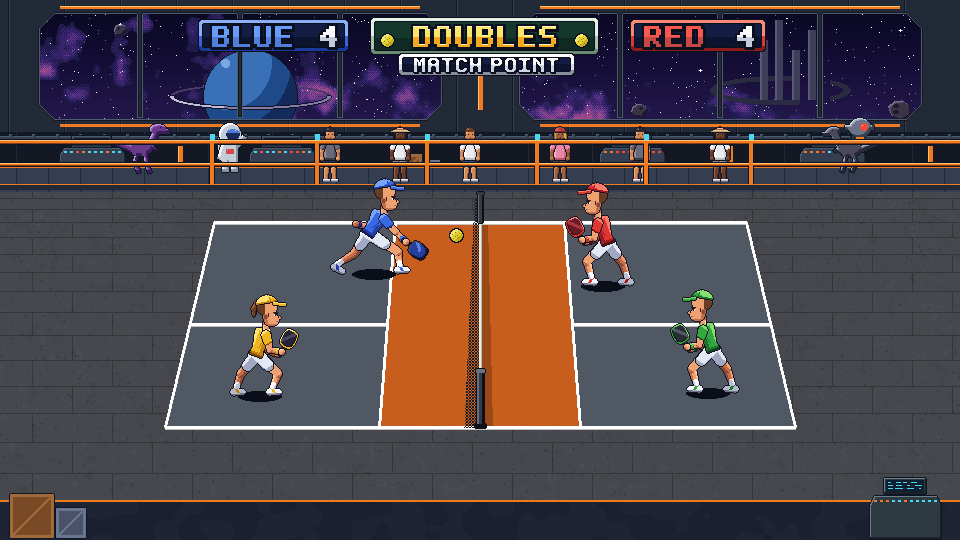
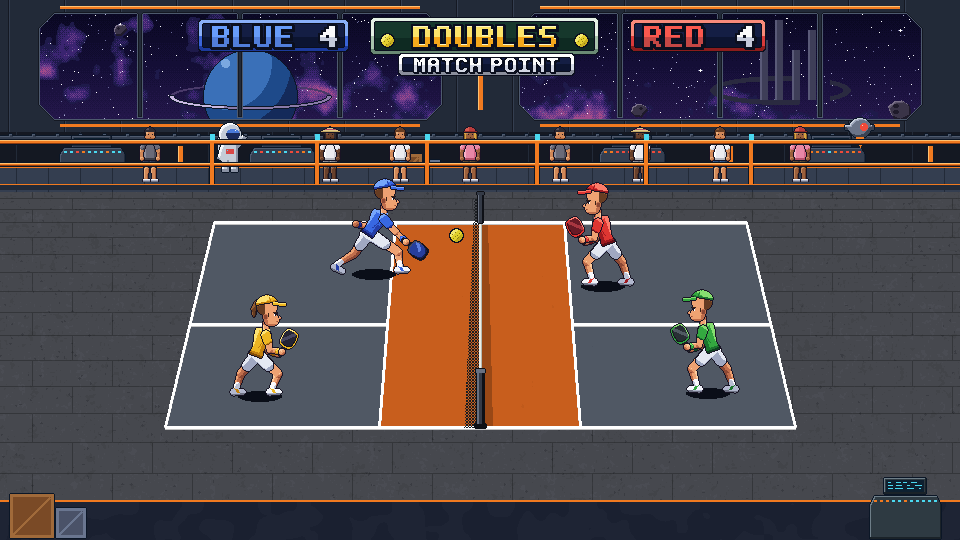
RUINS, GLACIER, STATION without dinosaurs; only the LAB keeps them (PORT-77)
The user's call after the first cut: the raptors, stegosaurus,
triceratops and pterodactyls come out of RUINS, GLACIER and STATION
(spectators stand in their places), and the Carnotaurus walks only the
LAB's deck (DinoWalkers.RIDES). The LAB keeps its tanks' skeletons and
loose raptors. ADR-085 amended.

470/470 plus the e2e, golden traces unchanged.

diff --git a/art/levels/tools/venues.py b/art/levels/tools/venues.py
@@ -792,8 +792,7 @@ RUST = ramp("3a1a14", "6a3020", "9a4a2a", "c87040")
 def ruins() -> Venue:
     """The dinosaur game's level 1: a drowned city burning under a purple
     and orange sunset, a broken bridge over the river, mossy pillars and
-    rusted girders, purple raptors on the wall."""
-    import critters as K
+    rusted girders, the crowd on a mossy wall."""
     v = Venue("ruins")
     v.stands_behind_fence = True
     S = Layer()
@@ -836,16 +835,12 @@ def ruins() -> Venue:
         P.fill(wall & P.rect_mask(-48, y, 1008, y + 1), RUIN_STONE[0])
     P.fill(P.rect_mask(-48, 165, 1008, 168), MOSS[1])
     P.fill(P.rect_mask(-48, 165, 1008, 166), MOSS[2])
-    K.raptor(P, 130, 168, ramp("3a1e5a", "6a3a8a", "9a62b4", "c49ad8"), d=1, s=1.5)
-    K.raptor(P, 220, 168, ramp("5a1e44", "8a3a6a", "c0609a", "e89ac0"), d=1, s=1.3)
-    K.stegosaurus(P, 840, 168, ramp("2a2a4a", "4a4a72", "6a6a96", "9090b8"),
-                  ramp("6a2a1a", "a8502a", "e08a4a"), d=-1, s=1.8)
     barrel(P, 286, 168, 14, 20, ramp("6a1414", "a82a24", "d84a3a"), hexrgb("e8e0d0"),
            mark=(hexrgb("f4f0e6"), hexrgb("c8281e")))
     crate(P, 640, 168, 20, ramp("4a2a16", "7a4a26", "a06a3a"))
     crate(P, 662, 168, 14, ramp("4a2a16", "7a4a26", "a06a3a"))
     v.add("stands", P, 1.0)
-    stand_seats(v, (340, 400, 470, 560, 720, 780), 180)
+    stand_seats(v, (140, 210, 340, 400, 470, 560, 720, 780, 850), 180)
     v.watcher = {"x": 780, "y": 180, "pose": "stand"}
     B = Layer()
     posts = [-30] + [M(x, 0)[0] for x in (110, 330, 560, 790, 1020, 1240)] + [990]
@@ -873,8 +868,7 @@ PINE = ramp("10223a", "1c3a4e", "2c5662")
 def glacier() -> Venue:
     """The dinosaur game's ice wilderness: a pink dusk over snowy peaks, a
     frozen castle's spires, a stone aqueduct hung with icicles, snowy
-    pines, and pale raptors in the drifts."""
-    import critters as K
+    pines, the crowd in the drifts."""
     v = Venue("glacier")
     v.stands_behind_fence = True
     S = Layer()
@@ -884,7 +878,6 @@ def glacier() -> Venue:
     for (cx, cy, w, h, sd) in ((150, 30, 150, 7, 241), (420, 14, 120, 6, 242), (700, 40, 160, 7, 243),
                                (900, 20, 110, 6, 244), (300, 66, 100, 5, 245)):
         cloud(S, cx, cy, w, h, ramp("4a3a7a", "8a4a7a", "c86a7a", "f09a8a"), seed=sd)
-    K.pterodactyl(S, 820, 52, ramp("3a1e3a", "7a3a4a", "b06a5a", "d89a7a"), d=-1, s=1.6, up=True)
     v.add("sky", S, 0.2)
     F = Layer()
     peaks(F, -48, 1008, 132, 30, 84, ramp("2a3060", "3e4880", "5a68a8"), SNOW, seed=250)
@@ -911,15 +904,11 @@ def glacier() -> Venue:
     v.add("trees", T, 0.6)
     P = Layer()
     snow_bank(P, -48, 1008, 168, 192, SNOW, seed=280)
-    K.raptor(P, 120, 180, ramp("4a5272", "7a84a6", "aab4d0", "dce4f4"), d=1, s=1.5)
-    K.raptor(P, 210, 180, ramp("2a2e4a", "4a5070", "6e76a0", "9aa2c8"), d=1, s=1.3)
-    K.triceratops(P, 850, 180, ramp("3a3a52", "5a5a78", "80809e", "a8a8c4"),
-                  ramp("2a3a6a", "4a6aa8", "7aa0d8"), d=-1, s=1.8)
     crate(P, 640, 180, 20, ramp("3a2a20", "5a4030", "7a5a40"))
     P.fill(P.ellipse_mask(650, 160, 12, 4) & P.rect_mask(638, 154, 662, 161), SNOW[2])
     icicles(P, 640, 660, 160, 5, ramp("6a9ad8", "9ac8f4", "e0f4ff"), seed=281)
     v.add("stands", P, 1.0)
-    stand_seats(v, (330, 400, 470, 560, 720, 780), 184)
+    stand_seats(v, (130, 200, 330, 400, 470, 560, 720, 780, 850), 184)
     v.watcher = {"x": 780, "y": 184, "pose": "stand"}
     B = Layer()
     posts = [-30] + [M(x, 0)[0] for x in (110, 330, 560, 790, 1020, 1240)] + [990]
@@ -1066,7 +1055,7 @@ def drone(L: Layer, x, y, s=1.0):
 def station() -> Venue:
     """The dinosaur game's space station, indoors: big windows on a nebula,
     a ringed planet, asteroids and a wrecked station; orange-lit girders,
-    consoles, an orange railing, raptors and a drone on the deck."""
+    consoles, an orange railing, an astronaut and a drone on the deck."""
     import critters as K
     v = Venue("station")
     v.stands_behind_fence = True
@@ -1135,13 +1124,11 @@ def station() -> Venue:
     for x in range(-48, 1008, 32):
         P.fill(deck & P.rect_mask(x, 166, x + 1, 192), HULL[1])
     P.fill(P.rect_mask(-48, 166, 1008, 168), LIGHT[1])
-    K.raptor(P, 140, 172, ramp("3a1e5a", "6a3a8a", "9a62b4", "c49ad8"), d=1, s=1.5)
     K.astronaut(P, 230, 172, ramp("8a92a4", "c4ccd8", "eef2f8", "ffffff"), ramp("1a2a5a", "4a7ad8"),
                 d=1, s=1.3, wave=True)
     drone(P, 860, 128, s=1.2)
-    K.raptor(P, 850, 172, ramp("2a2a3a", "4a4a5e", "7a7a8e", "a8a8bc"), d=-1, s=1.4)
     v.add("stands", P, 1.0)
-    stand_seats(v, (330, 400, 470, 560, 640, 720), 180)
+    stand_seats(v, (150, 330, 400, 470, 560, 640, 720, 800), 180)
     v.watcher = {"x": 720, "y": 180, "pose": "stand"}
     B = Layer()
     posts = [-30] + [M(x, 0)[0] for x in (110, 330, 560, 790, 1020, 1240)] + [990]

diff --git a/game/README.md b/game/README.md
@@ -152,7 +152,7 @@ title shows; from a checkout the title says `BUILD DEV <describe>`.
 | Path | What |
 |---|---|
 | `sim/` | The deterministic simulation: `k.gd` constants, `types.gd` records, `sim.gd` (ball, collision, players, serve, rules, game, frame pipeline, in the C's order), `multi_ball.gd` (the port-only MULTI BALL), `ai.gd` (the CPU), `practice.gd` (the ball machine), `select.gd` (Player Select), `replay.gd` (close calls), `open_play.gd` (the park's courts and stacks), `career.gd` (career stats and unlocks), `opponents.gd`, `paddles.gd`. Pure: no Nodes, time, or randomness. |
-| `view/` match | `match_view.gd` (one match: the scene, the frame, events) with `match_actors.gd` (people, ball, sparks), `match_input.gd` (intents, pause menu) and `match_end.gd` (records, the initials and UNLOCKED! cards), `court_view.gd` (world → screen), `court_style.gd` (+ shader: court colours, time of day), `hud.gd` (with `hud_cards.gd`: the intro, initials, UNLOCKED! and stats cards), `crowd.gd`, `watcher.gd`, `camera_lean.gd`, `close_call.gd`, `feel.gd`, `flair.gd` (point reactions, emotes, the net's shiver), `rally_heat.gd` (a long rally's fire and focus), `critter.gd` (each venue's critter), `dino_walkers.gd` (the Carnotaurus and friends at DINOSAUR and DINO PARK, and the Carnotaurus at the dinosaur game's four levels), `wind_view.gd`, `player_look.gd` (+ palette shader), the `glow_outline`, `invert` and `shadow_tint` shaders, `practice_view.gd`, `ball_glide.gd` (a paced ball drawn gliding), `highlight.gd` (PLAY OF THE MATCH: the recording and the replay), `tuning_panel.gd` (F2: the tuning flyout), `debug_overlay.gd` (F3). |
+| `view/` match | `match_view.gd` (one match: the scene, the frame, events) with `match_actors.gd` (people, ball, sparks), `match_input.gd` (intents, pause menu) and `match_end.gd` (records, the initials and UNLOCKED! cards), `court_view.gd` (world → screen), `court_style.gd` (+ shader: court colours, time of day), `hud.gd` (with `hud_cards.gd`: the intro, initials, UNLOCKED! and stats cards), `crowd.gd`, `watcher.gd`, `camera_lean.gd`, `close_call.gd`, `feel.gd`, `flair.gd` (point reactions, emotes, the net's shiver), `rally_heat.gd` (a long rally's fire and focus), `critter.gd` (each venue's critter), `dino_walkers.gd` (the Carnotaurus and friends at DINOSAUR and DINO PARK, and the Carnotaurus at the LAB), `wind_view.gd`, `player_look.gd` (+ palette shader), the `glow_outline`, `invert` and `shadow_tint` shaders, `practice_view.gd`, `ball_glide.gd` (a paced ball drawn gliding), `highlight.gd` (PLAY OF THE MATCH: the recording and the replay), `tuning_panel.gd` (F2: the tuning flyout), `debug_overlay.gd` (F3). |
 | `view/` menus | `title_screen.gd` (the title), `title_pages.gd` (its pages' rows), `title_career.gd` (the CAREER pages), `menu_page.gd` (every menu page, and `drive()`: one frame of the menu keys), `bracket_screen.gd` (the tournament), `select_screen.gd` (Player Select), `lobby_screen.gd` (multiplayer), `practice_page.gd`, `tutorial_view.gd` (a lesson's card and banner), `story_scene.gd` (STORY's scenes: the cast, the dialog, the cards), `course_screen.gd` and `court_diagram.gd` (PICKLEBALL 101), `career_keyboard.gd`, `online_screen.gd` (host and join), `career_preview.gd`, `hat_museum.gd`, `update_screen.gd` (the update at launch), `park_view.gd` (open play) with `park_message.gd` (its panel's text), `prompts.gd`/`prompt_bar.gd` (device-aware button prompts), `ui_kit.gd` (panels and text), `setting_rows.gd` (rows shared by the title and the tuning panel), `bitmap_text.gd`. |
 | `view/` sound | `audio_map.gd`/`sfx.gd` (effects and ambience), `music.gd` (the soundtrack: crossfades, stingers, ducking), `announcer.gd` (the announcer's voice) and `commentary.gd` (what it says in a match). |
 | `net/` | Online play (ADR-056): `lockstep.gd` (inputs and the desync check), `online_session.gd` (the handshake and the match's inputs), `net_link.gd` with `enet_link.gd` (UDP) and `loopback_link.gd` (tests). |

diff --git a/decisions/ADR-085-dinosaur-game-levels.md b/decisions/ADR-085-dinosaur-game-levels.md
@@ -29,10 +29,10 @@ COURT > VENUE like the others:
 
 | Venue | From | Court (DEFAULT) | Who's watching |
 |---|---|---|---|
-| **RUINS** | `01-ruins.png` | PURPLE, CLAY kitchen, CONCRETE (cracked), WHITE | two raptors and a stegosaurus on a mossy wall, a burning skyline over a river and a broken bridge |
-| **GLACIER** | `ice-wilderness.png` | BLUE, NAVY kitchen, SNOW, WHITE | two pale raptors and a triceratops in the drifts, snowy peaks, ice spires, the aqueduct, a pterodactyl |
+| **RUINS** | `01-ruins.png` | PURPLE, CLAY kitchen, CONCRETE (cracked), WHITE | the crowd on a mossy wall, a burning skyline over a river and a broken bridge |
+| **GLACIER** | `ice-wilderness.png` | BLUE, NAVY kitchen, SNOW, WHITE | the crowd in the drifts, snowy peaks, ice spires, the aqueduct |
 | **LAB** (indoors) | `science-lab.png` | BLACK, GREEN kitchen, ASPHALT (steel plates), YELLOW | a raptor loose on the grated deck behind a yellow safety rail; a T. rex, a raptor and a long-neck in the tanks |
-| **STATION** (indoors) | `space.png` | SLATE, ORANGE kitchen, ASPHALT (deck plates), WHITE | a raptor, an astronaut and a drone behind an orange rail; the windows' planet, asteroids and wreck |
+| **STATION** (indoors) | `space.png` | SLATE, ORANGE kitchen, ASPHALT (deck plates), WHITE | an astronaut and a drone with the crowd behind an orange rail; the windows' planet, asteroids and wreck |
 
 - **Drawn in the kit's way**, not traced: `art/levels/tools/venues.py`
   gains `ruins()`, `glacier()`, `lab()` and `station()`, and
@@ -46,11 +46,15 @@ COURT > VENUE like the others:
 - **LAB and STATION are indoors** (`Settings.INDOOR`): always lit,
   whatever COURT's TIME says. RUINS and GLACIER take TIME like the
   outdoor venues.
-- **The Carnotaurus comes too** (ADR-084's sprites, as drawn): Nathan
-  rides him along each venue's deck behind the fence, among the crowd
-  (`DinoWalkers.RIDES`: the deck's y), with the same route, idle and roar
-  as at DINOSAUR. The pterodactyl crosses RUINS' and GLACIER's skies
-  (`SKIES`). DINOSAUR's own cast is unchanged.
+- **Dinosaurs only at the LAB** (the user, after a first cut put them at
+  all four: "I didn't realize we were going to place dinosaurs in the
+  locations. Get rid of them for all except LAB"). RUINS, GLACIER and
+  STATION are the levels' places without their creatures: spectators
+  stand where the raptors, the stegosaurus and the triceratops were. At
+  the LAB, the tanks' skeletons, two loose raptors, and the Carnotaurus
+  (ADR-084's sprites, as drawn): Nathan rides him along the deck behind
+  the fence, among the crowd (`DinoWalkers.RIDES`: the deck's y), with
+  DINOSAUR's route, idle and roar. DINOSAUR's own cast is unchanged.
 - **Their own sound:** an ambience each (`audio/hd-sfx/make_sfx.py`:
   wind, fires, a river and far raptors; a howling wind and groaning ice;
   mains hum, bubbling tanks and beeps; an engine drone, vents and doors)
@@ -68,13 +72,12 @@ COURT > VENUE like the others:
 - No story chapter, opponent home or OPEN PLAY location plays at them;
   they're picked on COURT > VENUE (and QUICK MATCH, the demo and replays
   follow it).
-- No venue critter (SNES ADR-064) at them: the Carnotaurus and the
-  pterodactyl are their life.
+- No venue critter (SNES ADR-064) at them.
 
 ## Tests
 
-`test_dinos` (the levels have the Carnotaurus on their deck, the
-pterodactyl outdoors, behind the fence at each); `test_court` (the four
+`test_dinos` (the LAB has the Carnotaurus on its deck, behind the
+fence; the other three none); `test_court` (the four
 paint their venues.json presets); `test_announcer` (their lines are to
 record); and the suites that run every venue (`test_view`,
 `test_layout`, `test_night`, `test_music`, `test_audio`, `test_replay`,

diff --git a/design/PORT_ROADMAP.md b/design/PORT_ROADMAP.md
@@ -588,23 +588,22 @@ the same request). Open: 36 and 40.
 - [x] `PORT-77` ADR-085: four venues from the dinosaur game's level
   concepts (`../dinosaur/assets/levels`), after the GYM on COURT > VENUE.
   **RUINS** (`01-ruins.png`): a burning, drowned city under a purple and
-  orange sunset, a broken bridge, mossy pillars and rusted girders,
-  raptors and a stegosaurus on the wall; PURPLE court, CLAY kitchen,
-  cracked CONCRETE. **GLACIER** (`ice-wilderness.png`): snowy peaks at
-  dusk, ice spires, the aqueduct hung with icicles, snowy pines, pale
-  raptors and a triceratops in the drifts; BLUE and NAVY on SNOW.
+  orange sunset, a broken bridge, mossy pillars and rusted girders, the
+  crowd on a mossy wall; PURPLE court, CLAY kitchen, cracked CONCRETE.
+  **GLACIER** (`ice-wilderness.png`): snowy peaks at dusk, ice spires,
+  the aqueduct hung with icicles, snowy pines; BLUE and NAVY on SNOW.
   **LAB** (`science-lab.png`, indoors): green tanks with a T. rex, a
   raptor and a long-neck's skeletons, a hazard-striped catwalk, consoles,
   a raptor loose on the deck behind a yellow rail; BLACK and GREEN, YELLOW
   lines, steel plates. **STATION** (`space.png`, indoors): windows on a
   nebula, a ringed planet, asteroids and a wreck, orange-lit rails and
-  consoles, a raptor, an astronaut and a drone; SLATE and ORANGE on deck
-  plates. Nathan rides the Carnotaurus along each deck (ADR-084's sprites,
-  with the roar), and the pterodactyl crosses RUINS' and GLACIER's skies.
+  consoles, an astronaut and a drone; SLATE and ORANGE on deck plates.
+  Dinosaurs only at the LAB (your call after the first cut): there Nathan
+  rides the Carnotaurus along the deck (ADR-084's sprites, with the roar).
   Each has its own ambience and match track; the announcer's lines for
   them are in the batch to record (until then: the format).
-  - Verified: `test_dinos` (the Carnotaurus on each deck, behind the
-    fence; the pterodactyl outdoors only), `test_court` (each paints its
+  - Verified: `test_dinos` (the Carnotaurus on the LAB's deck, behind the
+    fence; none at the other three), `test_court` (each paints its
     presets), `test_announcer`, and every suite that runs all venues;
     470/470 plus the e2e, golden traces unchanged; the existing venues'
     art and audio byte-identical; screenshots of all four in a match
@@ -621,8 +620,7 @@ the chain: each has a default I've gone with.
 - **PORT-77 the levels:** the names are RUINS, GLACIER, LAB and STATION
   (8 cells fit COURT's page). The crowd is the same crowd everywhere, so
   GLACIER's spectators are in shorts; say if they should be bundled up.
-  Should any of the four be a story chapter, an opponent's home, or an
-  OPEN PLAY location?
+  They live on COURT > VENUE only for now (your call).
 
 - **PORT-76 the dinosaurs:** the Carnotaurus walks with Nathan up (the
   solo `walk`/`idle` tags are one line away in `export.sh` and `CAST`).
